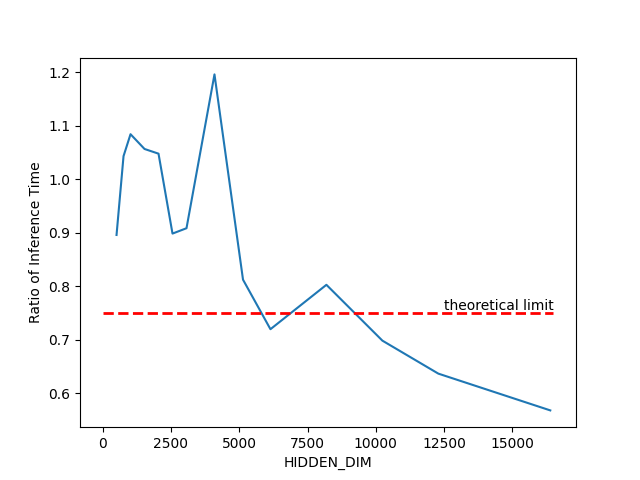
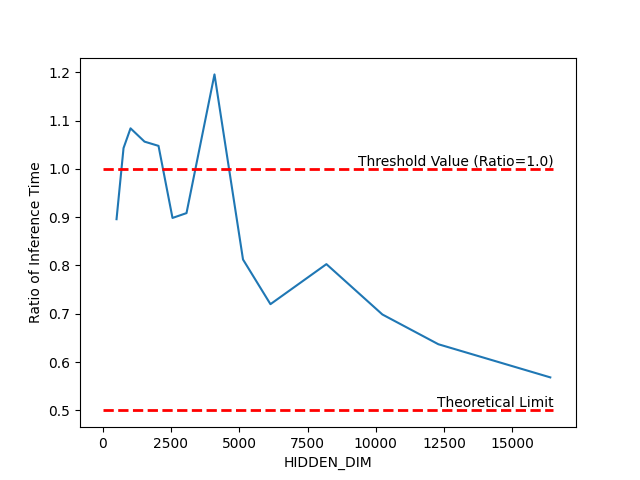
更新实验数据与绘图程序

diff --git a/expert_slicing/plot.py b/expert_slicing/plot.py
@@ -1,7 +1,7 @@
 import matplotlib.pyplot as plt
 
-B = 8
-SQ = 1024
+B = 1
+SQ = 1
 
 def plot(w, e, tp):
     s = f"_W{w}_E{e}_TP{tp}"
@@ -29,15 +29,16 @@ def plot(w, e, tp):
     # 散点图
     plt.figure()
     plt.scatter(x, y)
-    t = (w+1.0)/(2*w)
+    plt.plot([0, 16500], [1, 1], color='red', linewidth=2.0, linestyle='--')
+    plt.text(16500, 1, 'Threshold Value (Ratio=1.0)', ha='right', va='bottom', fontsize=10)
+    t = 1.0 / w
     plt.plot([0, 16500], [t, t], color='red', linewidth=2.0, linestyle='--')
-    plt.text(16500, t, 'theoretical limit', ha='right', va='bottom', fontsize=10)
+    plt.text(16500, t, 'Theoretical Limit', ha='right', va='bottom', fontsize=10)
     plt.xlabel("HIDDEN_DIM")
     plt.ylabel("Ratio of Inference Time")
     plt.savefig(f"pics_B{B}_SQ{SQ}/pics"+s+"/scatter"+s+".png")
 
     plt.figure()
-    # plt.ylim(0, 0.014)
     plt.xlabel("HIDDEN_DIM")
     plt.ylabel("Inference Time")
     p1 = plt.scatter(x, sliced_time)
@@ -47,15 +48,16 @@ def plot(w, e, tp):
     # 折线图
     plt.figure()
     plt.plot(x, y)
-    t = (w+1.0)/(2*w)
+    plt.plot([0, 16500], [1, 1], color='red', linewidth=2.0, linestyle='--')
+    plt.text(16500, 1, 'Threshold Value (Ratio=1.0)', ha='right', va='bottom', fontsize=10)
+    t = 1.0 / w
     plt.plot([0, 16500], [t, t], color='red', linewidth=2.0, linestyle='--')
-    plt.text(16500, t, 'theoretical limit', ha='right', va='bottom', fontsize=10)
+    plt.text(16500, t, 'Theoretical Limit', ha='right', va='bottom', fontsize=10)
     plt.xlabel("HIDDEN_DIM")
     plt.ylabel("Ratio of Inference Time")
     plt.savefig(f"pics_B{B}_SQ{SQ}/pics"+s+"/line"+s+".png")
 
     plt.figure()
-    # plt.ylim(0, 0.014)
     plt.xlabel("HIDDEN_DIM")
     plt.ylabel("Inference Time")
     p1, =plt.plot(x, sliced_time)
@@ -63,8 +65,11 @@ def plot(w, e, tp):
     plt.legend([p1, p2], ["Sliced MoE", "Unsliced MoE"])
     plt.savefig(f"pics_B{B}_SQ{SQ}/pics"+s+"/sep_line"+s+".png")
 
-
-plot(2,2,2)
-plot(2,4,2)
-plot(4,4,2)
-plot(4,4,4)
+print(f"Plotting B={B} SQ={SQ}")
+args =[(2,2,2), (2,4,2), (4,4,2), (4,4,4)]
+for arg in args:
+    try:
+        plot(*arg)
+    except Exception as e:
+        print(f"Failed for {arg}: {e}")
+        continue
